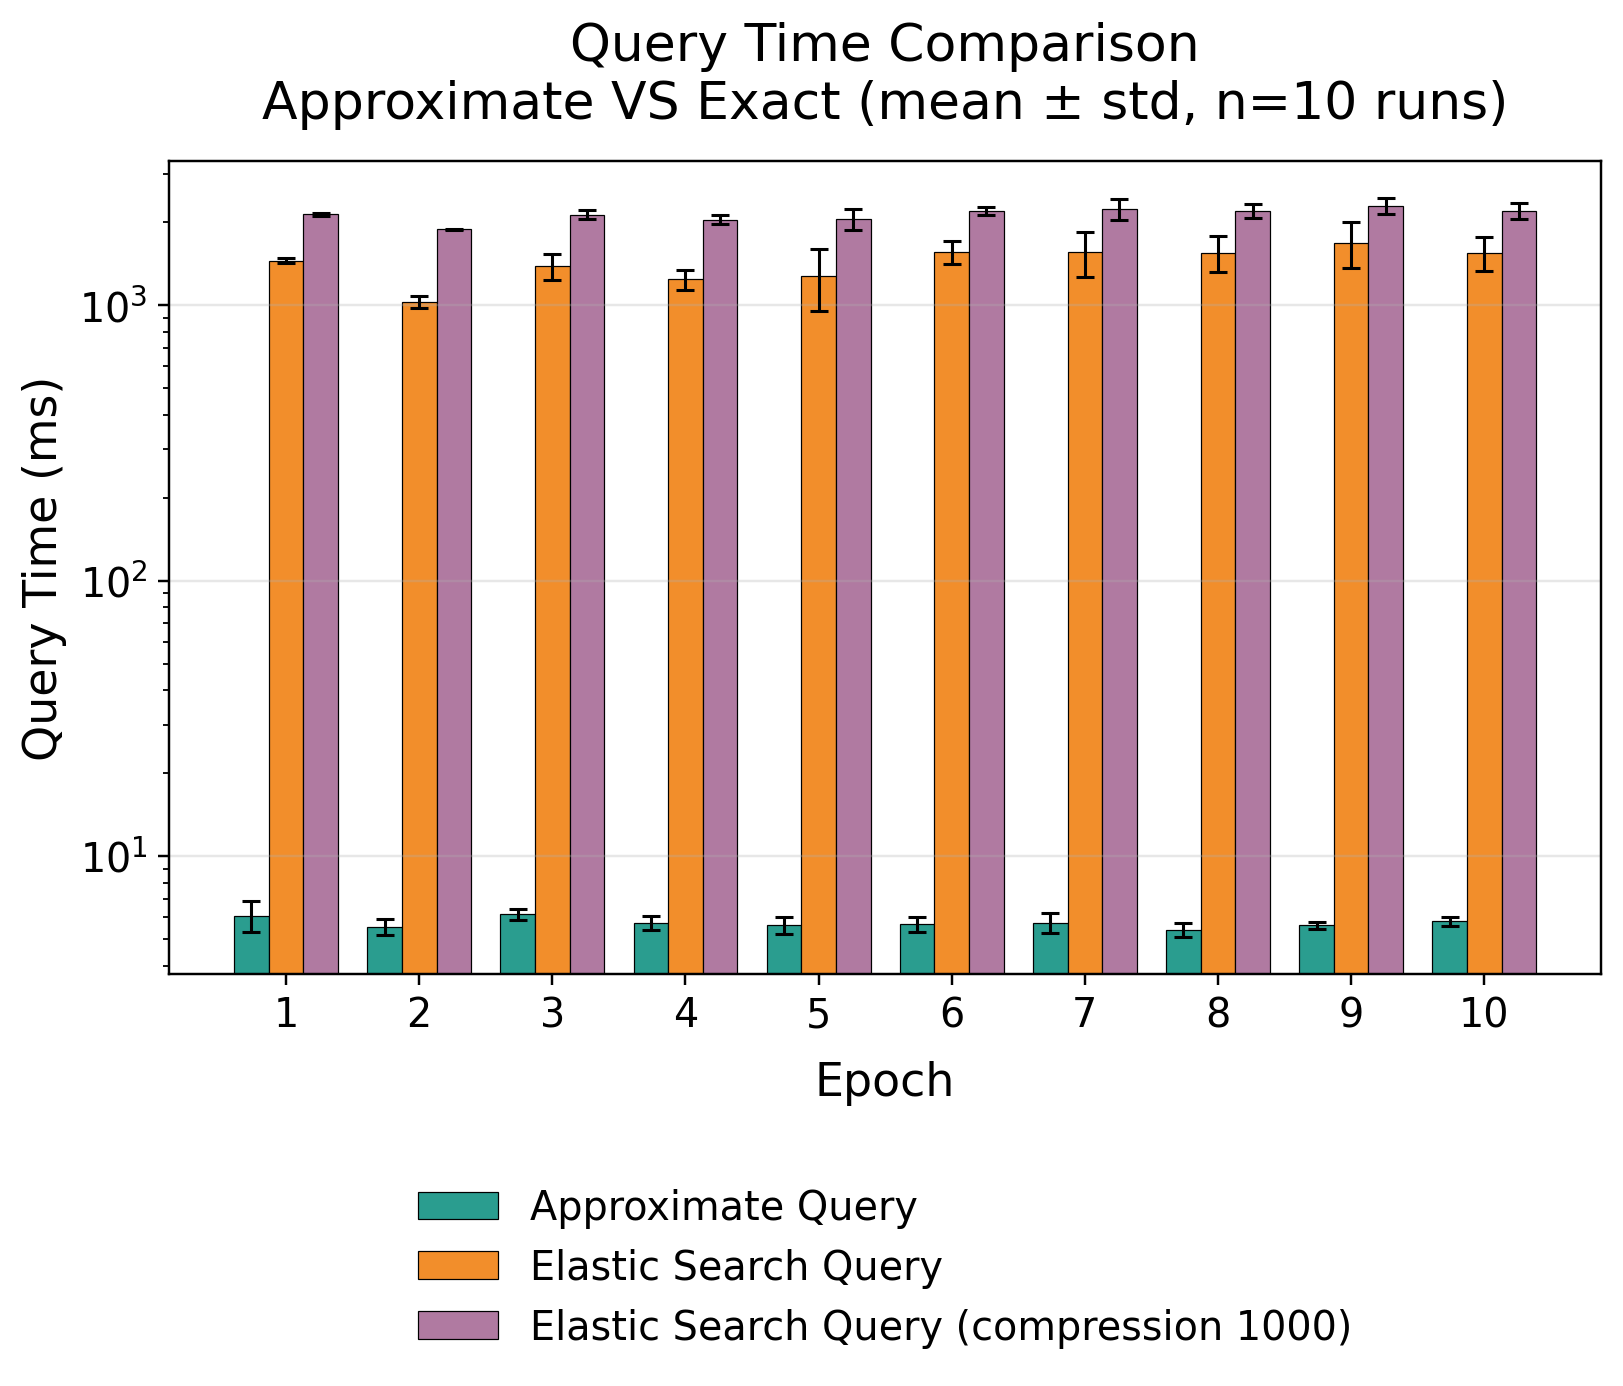
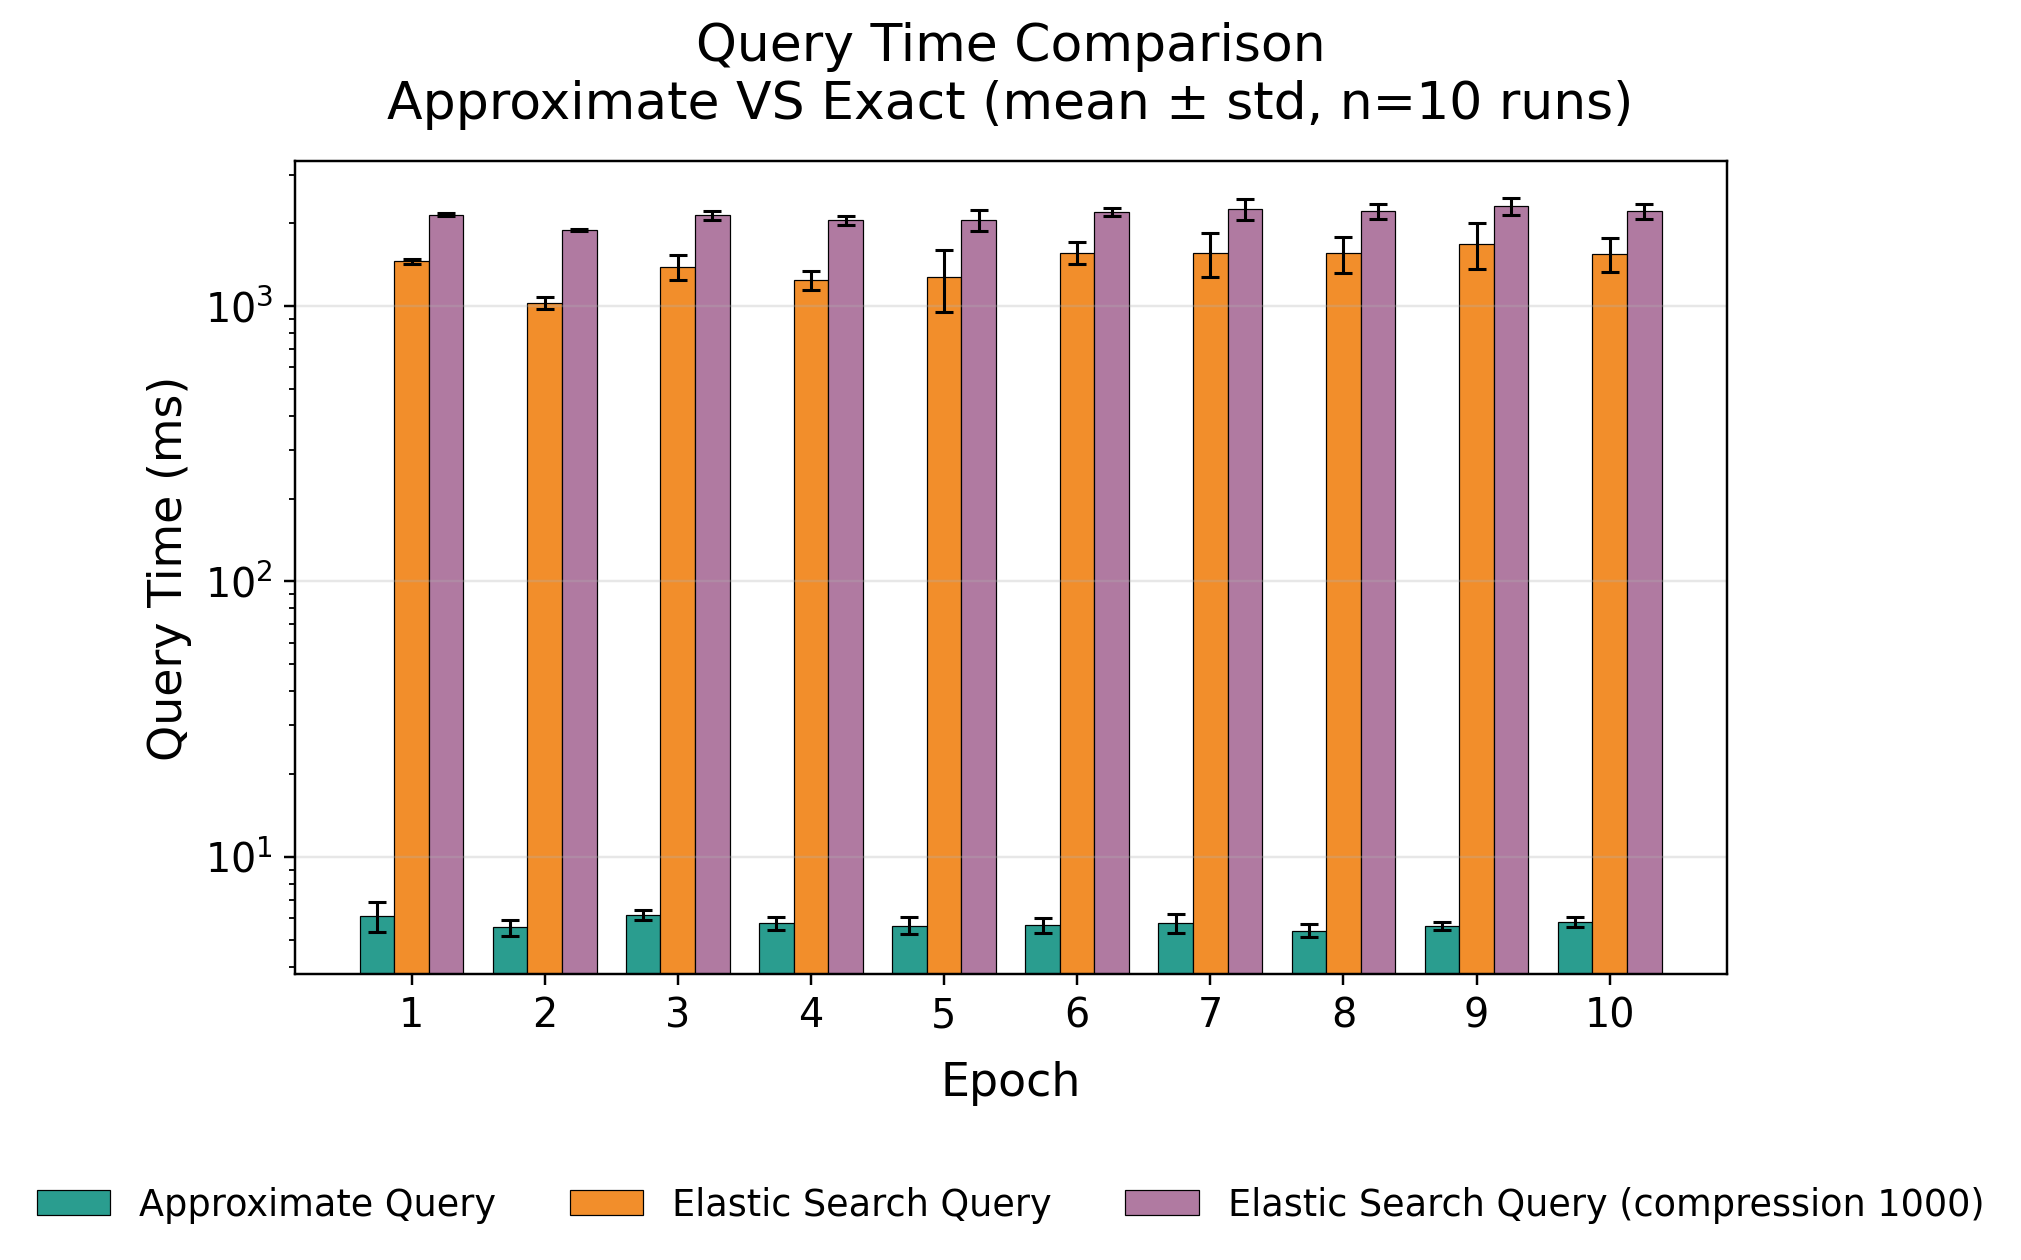
update multi_run_query_latency_default to be horizontal legends

diff --git a/scripts/plot_multi_run_query.py b/scripts/plot_multi_run_query.py
@@ -25,7 +25,7 @@ REPO_ROOT = Path(__file__).resolve().parents[1]
 TITLE_FS = 17
 LABEL_FS = 15
 TICK_FS = 13
-LEGEND_FS = 13
+LEGEND_FS = 12
 
 
 def _bar_with_err(ax, x, mean, std, label, color, bar_w):
@@ -68,7 +68,7 @@ def plot_chart(by_epoch, epochs, n_runs, series, out_path: Path,
     legend = ax.legend(
         loc="upper center",
         bbox_to_anchor=(0.5, -0.22),
-        ncol=1,
+        ncol=3,
         fontsize=LEGEND_FS,
         frameon=False,
     )
